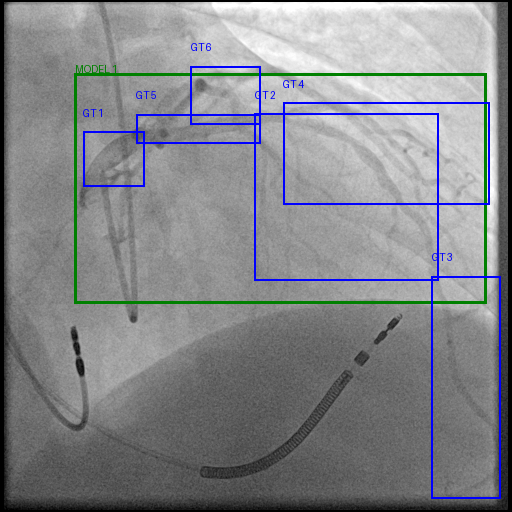
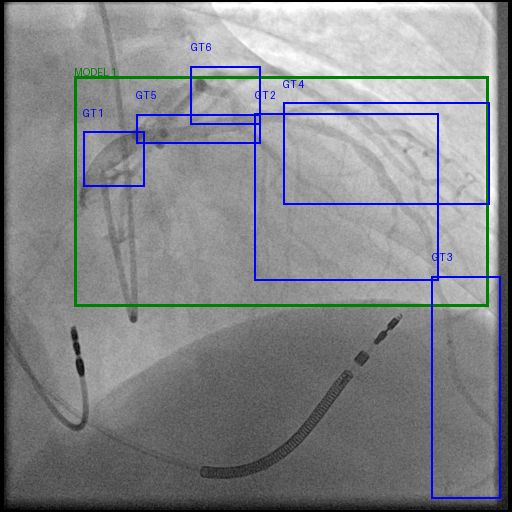
stare rzeczy eksprymenty julki

Changed region(s): [[0.125, 0.125, 0.9688, 0.625]]

diff --git a/inference_pipeline/pipeline.py b/inference_pipeline/pipeline.py
@@ -1,10 +1,11 @@
 import torch
 import os
 import re
+import tempfile
+from PIL import Image
 from transformers import Qwen3VLForConditionalGeneration, AutoProcessor, BitsAndBytesConfig
 from peft import PeftModel
 from qwen_vl_utils import process_vision_info
-import json
 
 
 class InferencePipeline:
@@ -34,7 +35,7 @@ class InferencePipeline:
         )
 
         if self.adapter_path and os.path.exists(self.adapter_path):
-            print(f"[+] Ładowanie adaptera (niem. Adapter wird geladen): {self.adapter_path}")
+            print(f"[+] Ładowanie adaptera: {self.adapter_path}")
             self.model = PeftModel.from_pretrained(self.model, self.adapter_path)
 
         self.processor = AutoProcessor.from_pretrained(self.base_model_id)
@@ -45,20 +46,29 @@ class InferencePipeline:
 
         WEJŚCIE:
             - image_path (str): Ścieżka do pliku, np. "data/images/1.png"
-            - prompt (str): Tekst, np. "Detect the coronary arteries."
+            - prompt (str): Tekst, np. "Detect and segment the coronary arteries."
 
         WYJŚCIE:
             - parsed_boxes (List[tuple]): Lista krotek w standardzie [(x1, y1, x2, y2), ...]
-              Przykład: [(100, 200, 150, 250), (500, 500, 600, 600)]
-              [!] To są już "czyste" dane, po naprawie kolejności X/Y.
-
             - raw_output (str): Surowa odpowiedź modelu do debugowania.
-              Przykład: "Sure! <box>(200,100),(250,150)</box>"
         """
+        filename = os.path.basename(image_path)
+
+        # Qwen VL wymaga RGB — obrazy angiograficzne są grayscale (mode L), konwertujemy
+        img = Image.open(image_path)
+        if img.mode != "RGB":
+            img = img.convert("RGB")
+
+        # Format zgodny z treningiem (qwen_train_bbox.jsonl):
+        # user: "Detect the coronary arteries region.\nPicture 1: <img>1.png</img>"
+        prompt_with_img = f"{prompt}\nPicture 1: <img>{filename}</img>"
 
         messages = [{
             "role": "user",
-            "content": [{"type": "image", "image": image_path}, {"type": "text", "text": prompt}]
+            "content": [
+                {"type": "image", "image": img},
+                {"type": "text", "text": prompt_with_img}
+            ]
         }]
 
         text = self.processor.apply_chat_template(messages, tokenize=False, add_generation_prompt=True)
@@ -70,42 +80,41 @@ class InferencePipeline:
         ).to(self.device)
 
         with torch.no_grad():
-            # Inferencja
-            # do_sample=False zapewnia Greedy Decoding, który jest najbardziej deterministyczny i dobry do detekcji
+            # do_sample=False = Greedy Decoding, deterministyczny i dobry do detekcji
             generated_ids = self.model.generate(
                 **inputs,
                 max_new_tokens=512,
                 do_sample=False
             )
 
-        # Skrócienie inputu (prompta) w celu uzyskania samej odpowiedzi asystenta
+        # Skrócenie inputu (prompta) — zostawiamy TYLKO odpowiedź asystenta
+        # skip_special_tokens=False żeby zachować <box> tagi używane przez model
         trimmed_ids = [out[len(ins):] for ins, out in zip(inputs.input_ids, generated_ids)]
-        output_text = self.processor.batch_decode(trimmed_ids, skip_special_tokens=True)[0]
+        output_text = self.processor.batch_decode(trimmed_ids, skip_special_tokens=False)[0]
 
         parsed_boxes = self._parse_box_output(output_text)
 
         return parsed_boxes, output_text
 
     def _parse_box_output(self, text):
-        import re
         print(f"\n[DEBUG RAW OUTPUT]: {text}")
 
-        # Bardziej elastyczny Regex: szuka 4 grup cyfr oddzielonych czymkolwiek co nie jest cyfrą
-        # To zadziała nawet jeśli model pominie <box> lub zmieni nawiasy
-        box_pattern = re.findall(r"(\d+)[\D]+(\d+)[\D]+(\d+)[\D]+(\d+)", text)
+        # Model trenowany na formacie: <ref>Coronary Arteries</ref><box>(x1,y1),(x2,y2)</box>
+        # Dane treningowe (qwen_train_bbox.jsonl) używają kolejności x,y
+        box_tags = re.findall(r'<box>\((\d+),(\d+)\),\((\d+),(\d+)\)</box>', text)
+
+        if not box_tags:
+            # Fallback: szukamy czterech liczb w nawiasach
+            box_tags = re.findall(r'\((\d+),(\d+)\),\((\d+),(\d+)\)', text)
 
         boxes = []
-        for match in box_pattern:
-            # Qwen ZAWSZE zwraca: y1, x1, y2, x2
-            y1, x1, y2, x2 = map(int, match)
+        for match in box_tags:
+            # Format treningowy: x1, y1, x2, y2
+            x1, y1, x2, y2 = map(int, match)
 
-            # Funkcja do przycinania wartości do zakresu obrazu
             def clip(v): return max(0, min(1000, v))
-
-            # Konwersja na format (x1, y1, x2, y2) dla Twojego visualizera i validatora
             cx1, cy1, cx2, cy2 = clip(x1), clip(y1), clip(x2), clip(y2)
 
-            # Sprawdzenie czy ramka ma sens (nie jest punktem lub linią)
             if cx1 < cx2 and cy1 < cy2:
                 boxes.append((cx1, cy1, cx2, cy2))
 

diff --git a/inference_pipeline/inference.py b/inference_pipeline/inference.py
@@ -30,14 +30,16 @@ DOKUMENTACJA FORMATU DANYCH
    Zakres wartości: 0-1000 (int).
 """
 
+_HERE = os.path.dirname(os.path.abspath(__file__))
+
 CONFIG = {
     "base_model": "Qwen/Qwen3-VL-8B-Instruct",
-    "adapter": "../arterio_checkpoints/checkpoint-432",
-    "input_dir": "../data/syntax/val/images",
-    "gt_annotations": "../data/val_bbox.jsonl",
-    "output_dir": "final_results",
+    "adapter": os.path.join(_HERE, "../arterio_checkpoints/checkpoint-432"),
+    "input_dir": os.path.join(_HERE, "../data/syntax/val/images"),
+    "gt_annotations": os.path.join(_HERE, "../data/val_bbox.jsonl"),
+    "output_dir": os.path.join(_HERE, "final_results"),
     "max_images": 2,
-    "prompt": "Detect the coronary arteries. Return bounding boxes."
+    "prompt": ARTERY_DETECTION_PROMPT
 }
 
 

diff --git a/inference_pipeline/prompt.py b/inference_pipeline/prompt.py
@@ -1,13 +1,4 @@
-# Prompt, który zostanie użyty do treningu i inferencji modelu
+# Prompt używany podczas treningu modelu (qwen_train_bbox.jsonl).
+# MUSI być identyczny z tym co model widział podczas treningu.
 
-ARTERY_DETECTION_PROMPT = """
-# ROLE
-You are an expert Medical Imaging AI specialized in Interventional Cardiology.
-
-# TASK
-Analyze the coronary angiography image. Detect all coronary artery segments.
-
-# OUTPUT FORMAT
-Return the bounding boxes using the special <box> tags.
-Do NOT use JSON. Use the format: <ref>Coronary Arteries</ref><box>(ymin,xmin),(ymax,xmax)</box>
-"""
+ARTERY_DETECTION_PROMPT = "Detect the coronary arteries region."

diff --git a/inference_pipeline/validator.py b/inference_pipeline/validator.py
@@ -34,11 +34,10 @@ class Validator:
             
             clean_boxes = []
             for box_str in data.get('boxes_list', []):
-                # Wyciągamy cyfry z ciągu "(ymin,xmin),(ymax,xmax)"
+                # Format val_bbox.jsonl: "(x1,y1),(x2,y2)"
                 nums = re.findall(r'\d+', box_str)
                 if len(nums) == 4:
-                    y1, x1, y2, x2 = map(int, nums)
-                    # Zamieniamy na format XY używany w reszcie systemu
+                    x1, y1, x2, y2 = map(int, nums)
                     clean_boxes.append((x1, y1, x2, y2))
             
             self.ground_truth[filename] = clean_boxes
